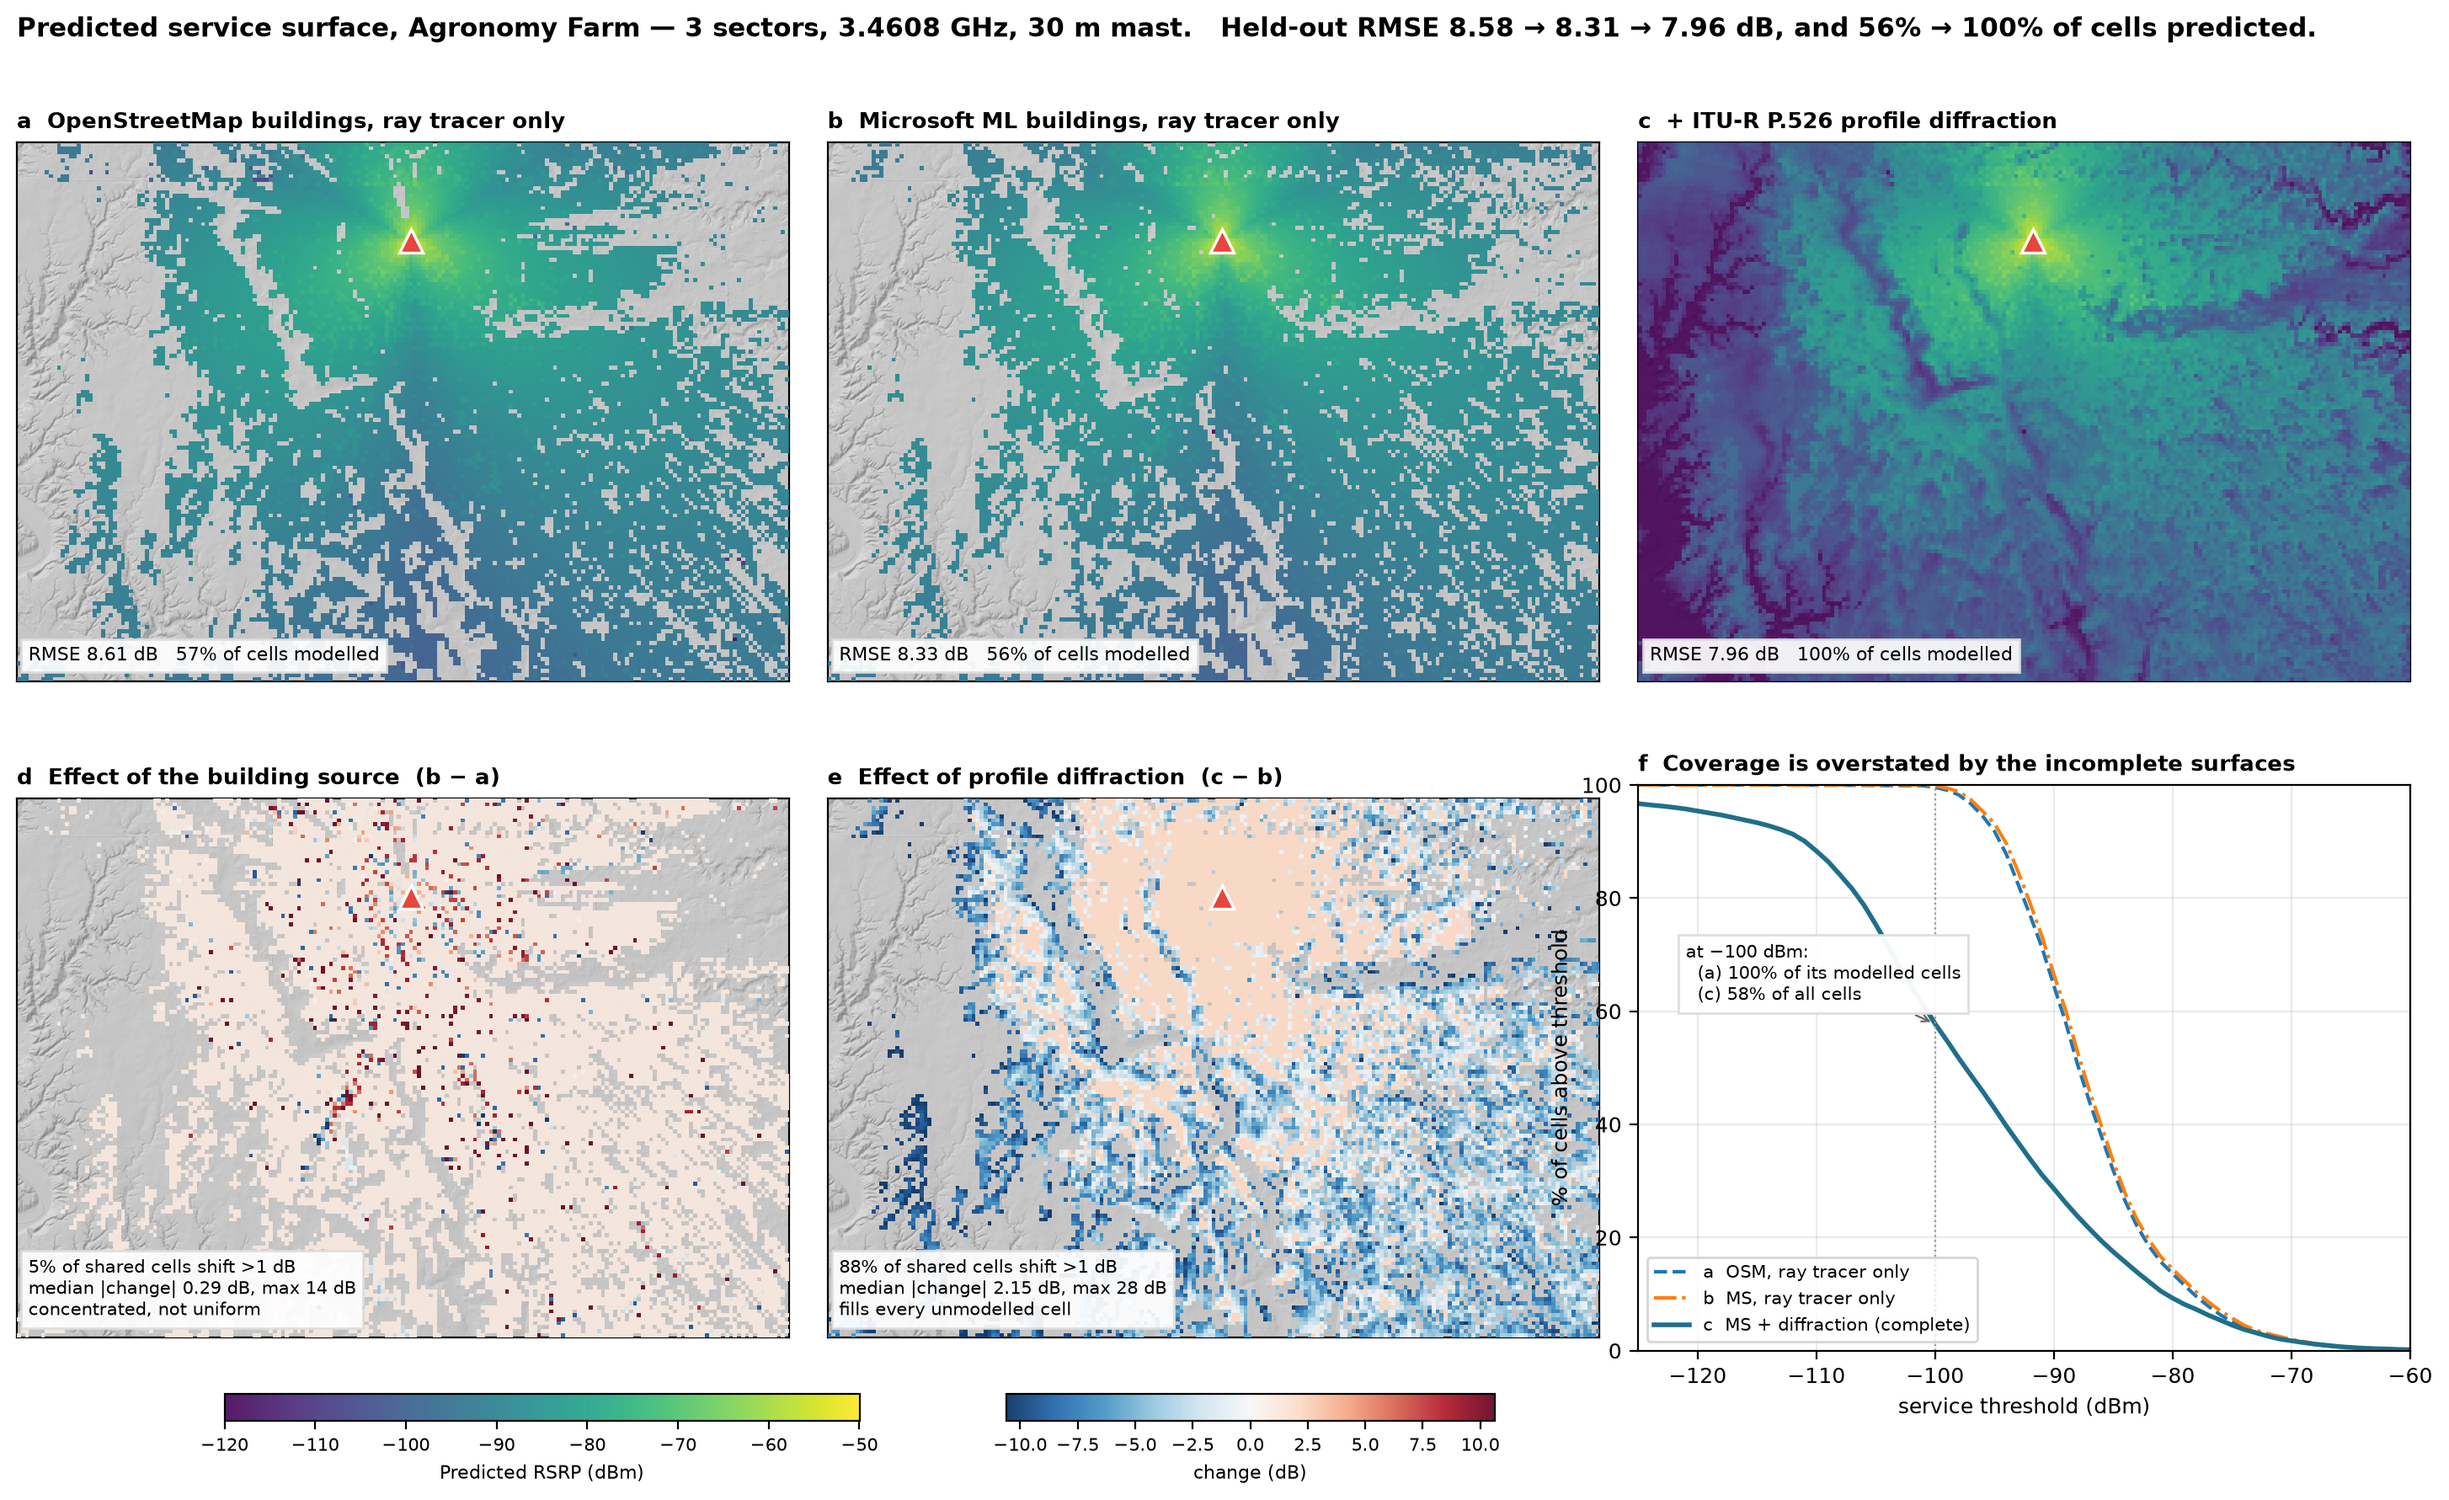
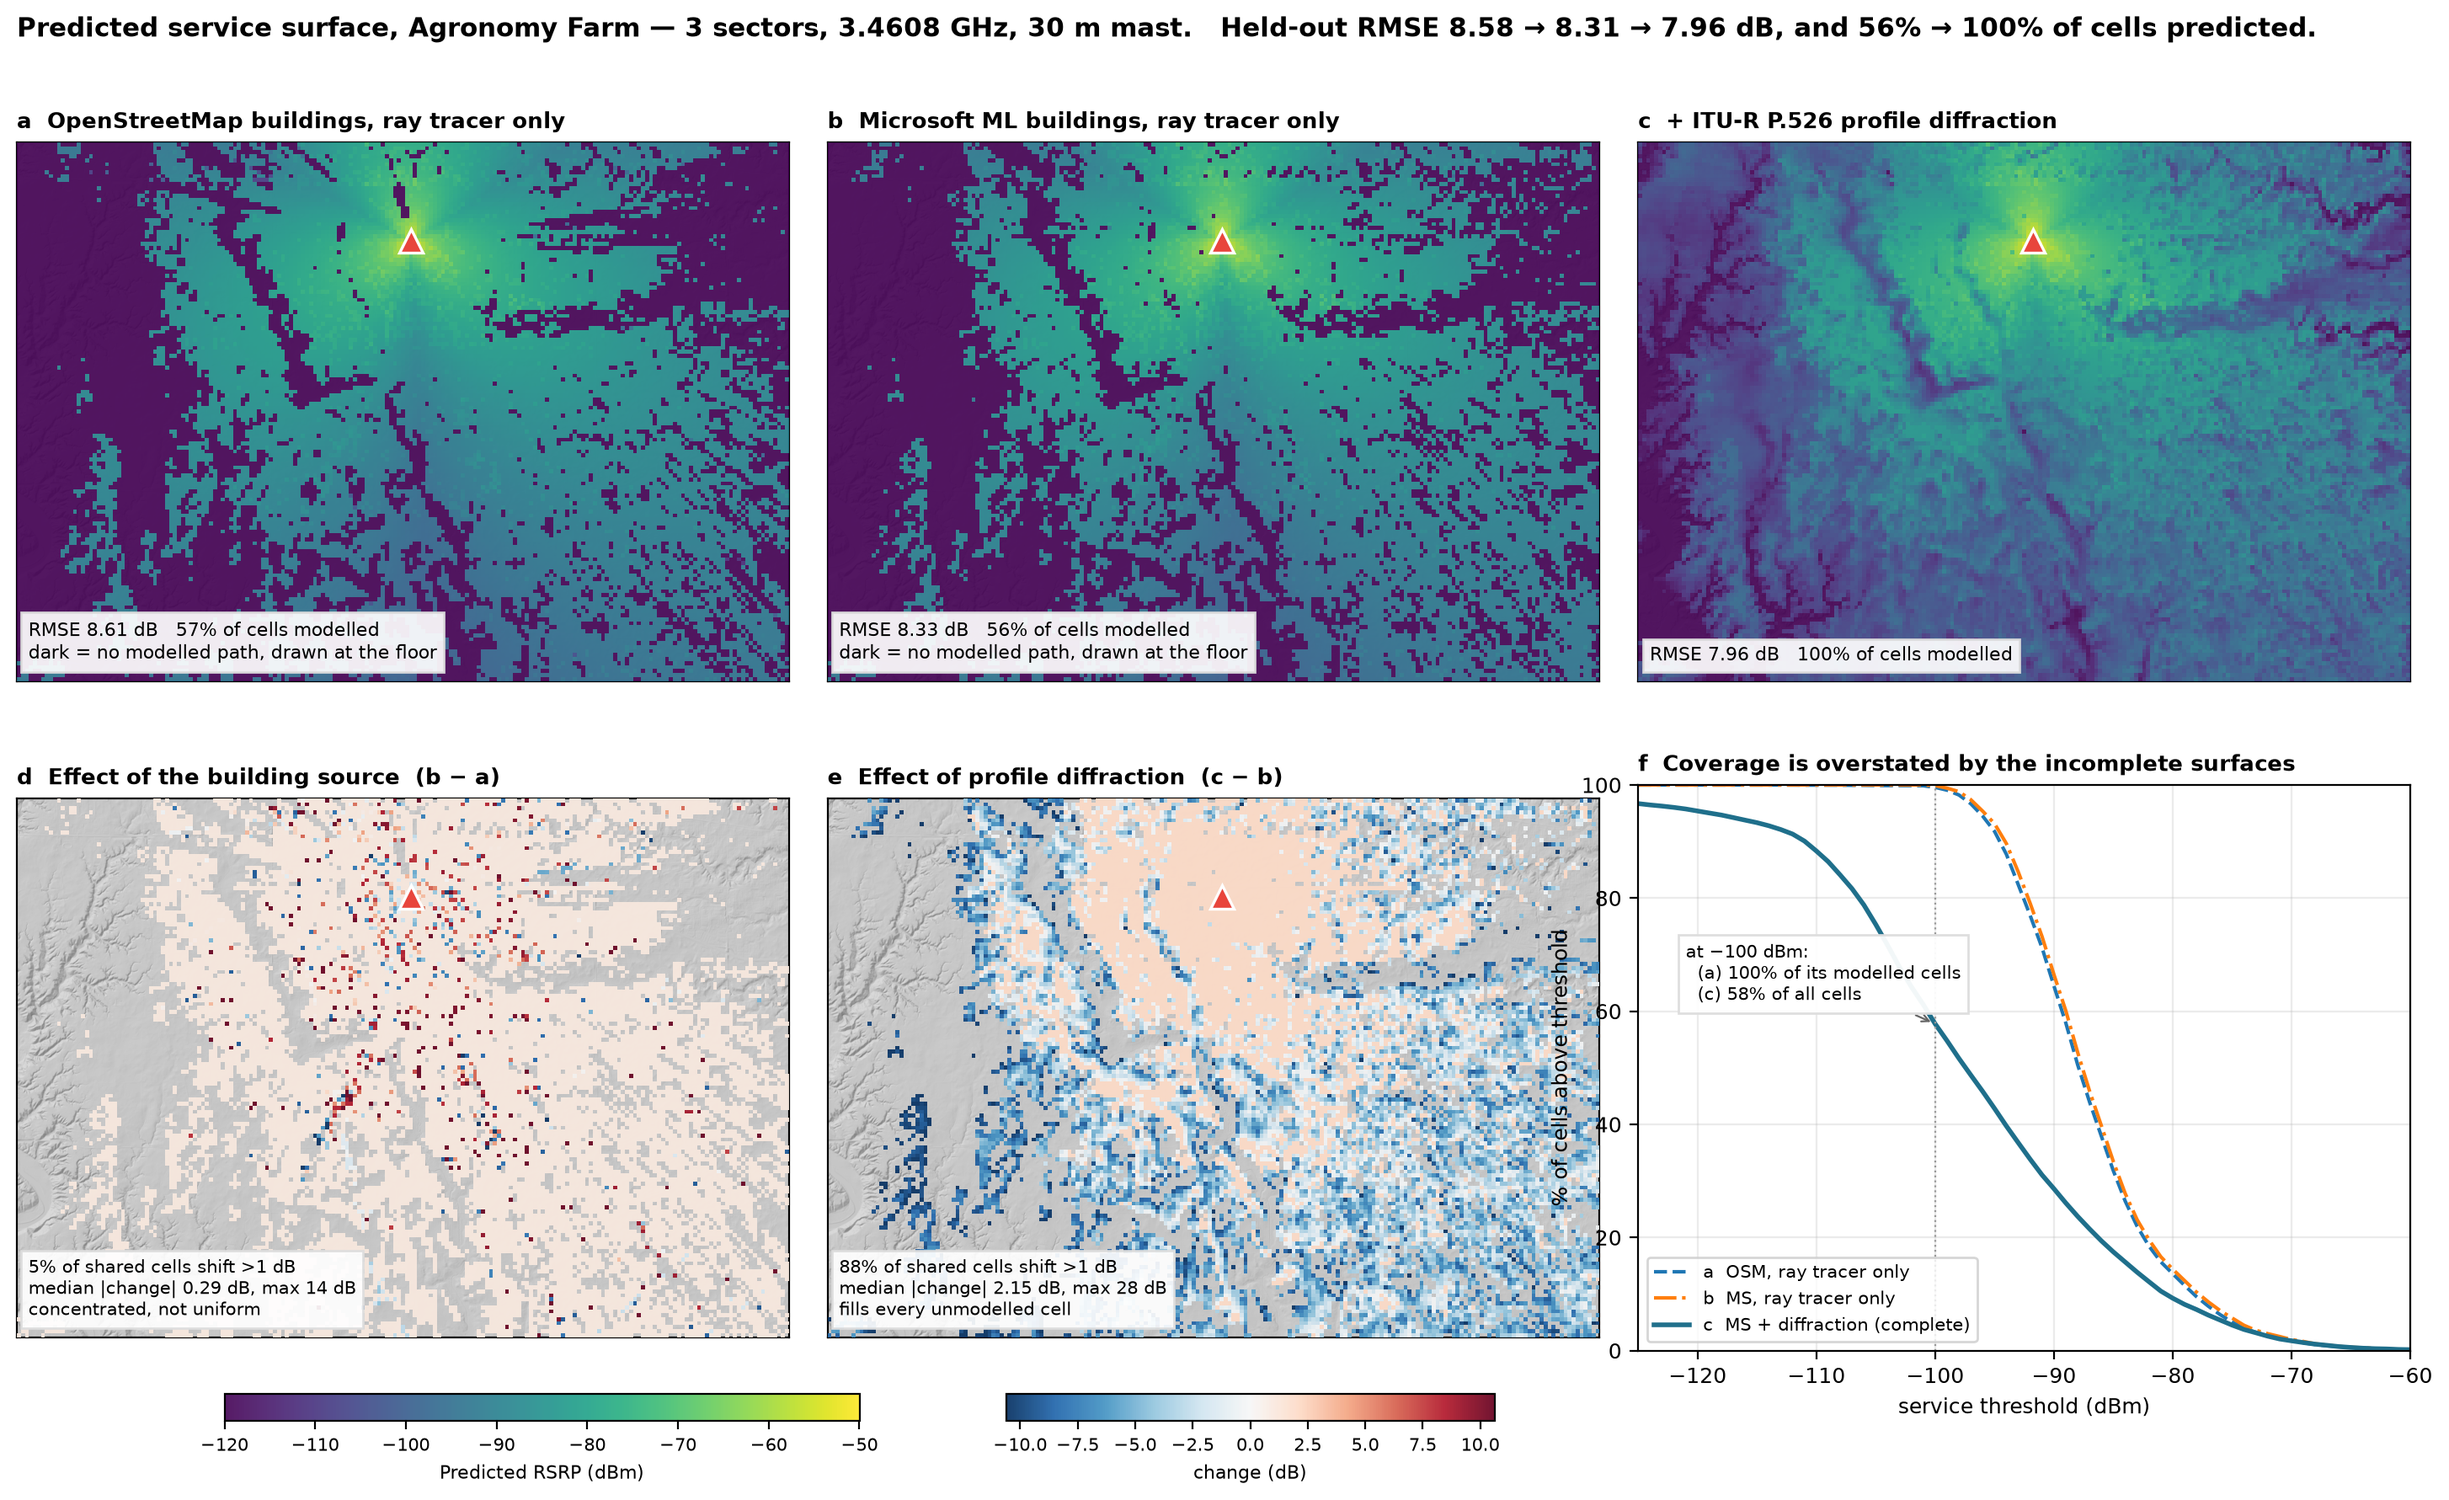
Render unmodelled cells at the display floor in surface_comparison.png
Grey speckle made the first two panels hard to read as maps. Unmodelled cells
now draw at the -120 dBm floor so the three surfaces are directly comparable,
labelled 'dark = no modelled path, drawn at the floor' in each.

Display only. The surface .npz, the delta panels and the coverage curve all use
real values -- a -120 fill is 17 dB below what the UE actually measured at such
points, so it must not reach the optimiser (see 654d919).

Changed region(s): [[0.0, 0.0926, 0.6499, 0.4632], [0.1547, 0.0926, 0.1857, 0.1235]]

diff --git a/sionna-approach/analysis/compare_models.py b/sionna-approach/analysis/compare_models.py
@@ -101,15 +101,22 @@ def main():
 
     panels = [
         (0, "a  OpenStreetMap buildings, ray tracer only", A,
-         f"RMSE {A['rmse']:.2f} dB   {A['link']:.0%} of cells modelled"),
+         f"RMSE {A['rmse']:.2f} dB   {A['link']:.0%} of cells modelled\n"
+         f"dark = no modelled path, drawn at the floor"),
         (1, "b  Microsoft ML buildings, ray tracer only", B,
-         f"RMSE {B['rmse']:.2f} dB   {B['link']:.0%} of cells modelled"),
+         f"RMSE {B['rmse']:.2f} dB   {B['link']:.0%} of cells modelled\n"
+         f"dark = no modelled path, drawn at the floor"),
         (2, "c  + ITU-R P.526 profile diffraction", C,
          f"RMSE {C['rmse']:.2f} dB   100% of cells modelled"),
     ]
     for k, title, X, sub in panels:
         ax = fig.add_subplot(gs[0, k]); base(ax)
-        im = ax.imshow(X["img"], extent=ext, origin="lower", cmap="viridis", norm=norm,
+        # Unmodelled cells are drawn at the floor so the maps read as maps rather than
+        # grey speckle. This is a DISPLAY choice only -- the surface .npz and every
+        # number in this figure use real values, and -120 is 17 dB below what the UE
+        # actually measured at such points (see the commit message for 654d919).
+        show = np.where(np.isfinite(X["img"]), X["img"], VMIN)
+        im = ax.imshow(show, extent=ext, origin="lower", cmap="viridis", norm=norm,
                        alpha=0.9, zorder=3, interpolation="nearest")
         ax.set_title(title, loc="left", weight="bold")
         ax.text(0.015, 0.03, sub, transform=ax.transAxes, fontsize=8, va="bottom",
